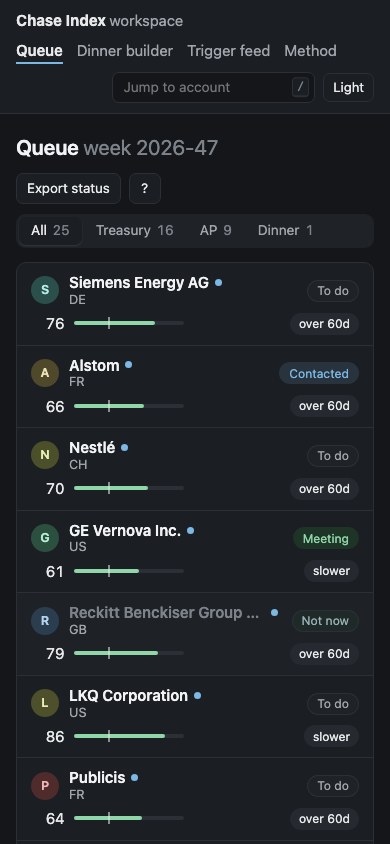
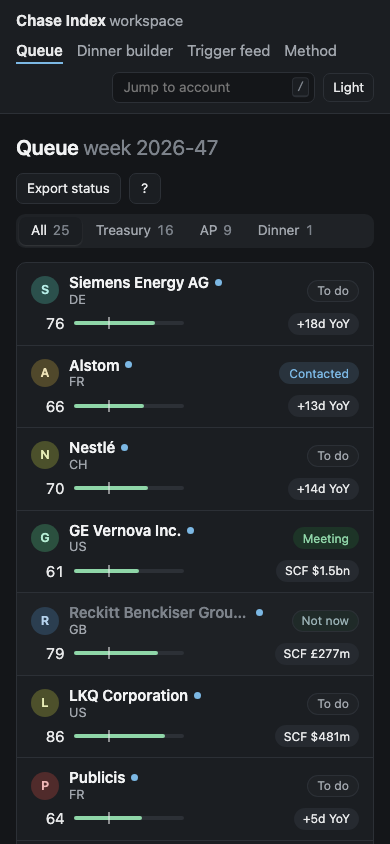
Workspace: specific why-now pills, working tabs, age groups, cleaner panel
- Why-now pill shows the most specific signal with its number (Terms 60->75d,
  SCF started, SCF £277m, +17d YoY from the median UK entity, ES 71->78d,
  Crossed 60d), at most 14 characters.
- Fix: rows set display:grid, which overrode [hidden], so the queue tabs and
  trigger filters changed nothing on screen. Browser test added
  (tests/test_workspace_browser.py) that checks what is visible.
- Trigger feed grouped Last 7 days / 8-14 days / 15-30 days (Upcoming and
  Older when the filter shows them); short labels in the type filter.
- Side panel reads top to bottom: key number and basis, why now (row pill,
  top items as "what · entity a -> b" with source icons), opener with Copy,
  ask for, links; evidence sentence, play, priority and tags under More.
- Panel screenshots for Reckitt, Siemens Energy and Grifols in evals.

diff --git a/workspace/static/style.css b/workspace/static/style.css
@@ -12,6 +12,7 @@
 --rep:#8fd6a8;--rep-bg:#1d3427;--prx:#f0c56b;--prx-bg:#3a2e14;--est:#e3a4dc;--est-bg:#3a2037;--flag:#f3a77f;--flag-bg:#3c2418;
 --t1:#7cb8e4;--t2:#9bb0c4;--t3:#8a8f96;--chip:#262a30;--panel:#1f2226;--faint:#7d838b;--link:#7cb8e4;--ink:#f2f3f4;--chip-fg:#e8e9ea}
 *{box-sizing:border-box}
+[hidden]{display:none!important}   /* rows set display:grid; hidden must still hide them */
 body{margin:0;background:var(--bg);color:var(--fg);font:15px/1.45 var(--font)}
 code,kbd{font-family:var(--font-mono);font-size:.86em}
 a{color:var(--link)}
@@ -166,3 +167,10 @@ button,select,.tab{transition:background-color .12s,border-color .12s,color .12s
  .trow{grid-template-columns:3.4rem minmax(0,1fr) 24px;gap:8px;padding:6px 12px}.t-line{white-space:normal;font-size:.86rem}
  .panel{padding:18px 16px 40px}
 }
+
+.p-basis{display:flex;align-items:center;gap:6px;margin-top:6px}
+.panel .why{list-style:none;padding:0;margin:0}.panel .why li{display:flex;align-items:flex-start;gap:0;padding:6px 0;font-size:.88rem;line-height:1.35;border-top:1px solid var(--line)}
+.panel .why li:first-child{border-top:0}.w-what{color:var(--fg);white-space:nowrap}.w-chg{color:var(--muted);flex:1;min-width:0}.panel .why .sep{margin:0 6px}
+.panel h3 .pill{text-transform:none;letter-spacing:0;margin:0 4px;height:20px;font-size:.74rem;color:var(--chip-fg)}
+.panel .why .src{margin-left:auto;flex:none}
+.p-more{border-top:1px solid var(--line);padding:12px 0;font-size:.86rem}.p-more summary{cursor:pointer;color:var(--muted)}.p-more .p-dl{margin-top:10px}

diff --git a/workspace/build.py b/workspace/build.py
@@ -272,7 +272,43 @@ def days_bar(days: int | None, bench: int | None, scale: int, kcls: str, tip: st
             f'<span class="bar" aria-hidden="true"><i style="width:{w:.1f}%"></i>{tick}</span></span>')
 
 
-def build_queue(queue: dict, types: dict) -> str:
+CUR = {"GBP": "\u00a3", "USD": "$", "EUR": "\u20ac", "CHF": "CHF "}
+
+
+def short_money(v, cur) -> str:
+    v = float(v)
+    s = f"{v / 1e9:.1f}bn" if v >= 1e9 else f"{v / 1e6:.0f}m"
+    return f"{CUR.get(cur, (cur or '') + ' ')}{s}"
+
+
+def why_pill(a: dict, trig_by_type: dict) -> str | None:
+    """The single most specific why-now signal, with its number, at most about 14 characters. Priority:
+    terms lengthened > SCF started > confirmed supplier finance with amount > year-on-year change (median UK entity)
+    > Spain payment period change > crossed 60 days."""
+    tt = set(trig_by_type)
+    if "terms_changed_longer" in tt:
+        m = re.search(r"from (?:standard )?(\d+)\s*(?:days?\s*)?to (\d+)\s*days", trig_by_type["terms_changed_longer"]["text"])
+        return f"Terms {m.group(1)}\u2192{m.group(2)}d" if m else "Terms longer"
+    if "scf_started" in tt:
+        return "SCF started"
+    b = q.get_account_brief(a["company_id"])
+    sf = b.get("supplier_finance") or {}
+    if sf.get("programme_disclosed") and sf.get("confirmed") and sf.get("obligations_outstanding"):
+        return f"SCF {short_money(sf['obligations_outstanding'], sf.get('currency'))}"
+    uk = (b.get("payment_profile") or {}).get("reported", {}).get("uk") or {}
+    med = uk.get("trend_days_year_on_year_median")
+    if med is not None and med >= 1:
+        return f"+{int(med + 0.5)}d YoY"
+    if "es_pmp_rose" in tt:
+        m = re.search(r"from (\d+) to (\d+) days", trig_by_type["es_pmp_rose"]["text"])
+        return f"ES {m.group(1)}\u2192{m.group(2)}d" if m else "ES slower"
+    if "filing_crossed_60" in tt:
+        return "Crossed 60d"
+    return None
+
+
+def build_queue(queue: dict, types: dict, public: list[dict] | None = None) -> str:
+    by_key = {(t["company_id"], t["text"]): t for t in (public or [])}
     acc = queue["accounts"]
     keys = {a["company_id"]: key_number(a["company_id"]) for a in acc}
     nums = [int(k[0][:-1]) for k in keys.values() if k[0][:-1].isdigit()]
@@ -289,10 +325,22 @@ def build_queue(queue: dict, types: dict) -> str:
         n_tre += contact == "Treasury"
         n_ap += contact == "AP"
         n_din += a.get("play") == "dinner_invite"
-        pill = (f'<span class="pill" title="{E(types.get(tt[0], tt[0]))}">{E(ROW_TAG.get(tt[0], short_label(tt[0])))}</span>' if tt
-                else '<span class="faint">standing evidence</span>')
+        mine = {}
+        for t in sorted((t for t in (public or []) if t["company_id"] == cid and t.get("is_live")), key=lambda t: -(t.get("strength") or 0)):
+            mine.setdefault(t["trigger_type"], t)
+        pv = why_pill(a, mine)
+        pill = (f'<span class="pill" title="Strongest specific signal. All signals in the details panel.">{E(pv)}</span>' if pv
+                else f'<span class="pill">{E(ROW_TAG.get(tt[0], short_label(tt[0])))}</span>' if tt else '<span class="faint">standing evidence</span>')
         spark = sparkline(*days_series(cid, kind), w=120, h=28)
-        why = "".join(f"<li>{E(x)}</li>" for x in a["why_now"].split(" | "))
+        def why_li(x):
+            t = by_key.get((cid, x))
+            if not t:
+                return f'<li title="{E(x)}"><span class="w-what">{E(x)}</span></li>'
+            what, chg = trigger_line(t)
+            return (f'<li title="{E(x)}"><span class="w-what">{E(what)}</span><span class="sep">\u00b7</span>'
+                    f'<span class="w-chg">{E(chg)}</span>{icon_link(t.get("evidence_url"))}</li>')
+        why = "".join(why_li(x) for x in a["why_now"].split(" | "))
+        n_shown = len(a["why_now"].split(" | "))
         all_tags = "".join(f'<span class="chip" title="{E(types.get(x, x))}">{E(short_label(x))}</span>' for x in tt) or '<span class="faint">none</span>'
         n_live = a.get("triggers_live_n") or 0
         one_pager = f'<a href="one_pagers/{E(cid)}.html">One-pager</a>' if a.get("one_pager") else ""
@@ -306,17 +354,18 @@ def build_queue(queue: dict, types: dict) -> str:
 <span class="c-contact" title="{E(role)}">{contact}</span>
 <span class="c-status">{status_btn}</span>
 <template class="detail"><header class="p-head">{avatar(a['company'])}<div><h2>{E(a['company'])} {tier_badge(a.get('tier'))}</h2>
-<div class="sub">{E(a.get('country') or '')} · {E((a.get('sector') or '').replace('_', ' '))} · index rank {E(str(a.get('index_rank') or ''))} · queue #{a['queue_rank']}{thin}</div></div></header>
-<section class="p-key"><div><span class="p-num {kcls}">{E(kn)}</span> <span class="muted">{E(kvs)}</span></div>{spark}</section>
-<section><h3>Evidence</h3><p><span class="lbl {'rep' if kcls == 'rep' else 'prx'}">{'Reported' if kcls == 'rep' else 'Computed proxy'}</span> {E(a.get('evidence') or '')} {link(a.get('evidence_url'))}</p></section>
-<section><h3>Why now</h3><ul class="why">{why}</ul>
-<p class="small muted">{link(a.get('why_now_url'), 'trigger source') if a.get('why_now_url') else 'no dated public trigger source'} · {n_live} live event{'' if n_live == 1 else 's'}</p><div>{all_tags}</div></section>
+<div class="sub">{E(a.get('country') or '')} · {E((a.get('sector') or '').replace('_', ' '))} · queue #{a['queue_rank']}{thin}</div></div></header>
+<section class="p-key"><div><span class="p-num {kcls}">{E(kn)}</span> <span class="muted">{E(kvs)}</span>
+<div class="p-basis"><span class="lbl {'rep' if kcls == 'rep' else 'prx'}">{'Reported' if kcls == 'rep' else 'Computed proxy'}</span>{icon_link(a.get('evidence_url'), 'evidence source')}</div></div>{spark}</section>
+<section><h3>Why now {('<span class="pill">' + E(pv) + '</span>') if pv else ''} <span class="faint">{('top ' + str(n_shown) + ' of ') if n_live > n_shown else ''}{n_live} live event{'' if n_live == 1 else 's'}</span></h3><ul class="why">{why}</ul></section>
 <section><h3>Opener <span class="faint">draft, edit before sending</span></h3><blockquote class="opener">{E(a.get('opener_draft') or '')}</blockquote>
 <button type="button" class="copy" data-copy="{E(a.get('opener_draft') or '')}">Copy opener</button></section>
-<section><dl class="p-dl"><dt>Ask for</dt><dd>{E(role)}<div class="small muted">{E(a.get('who_role_reason') or '')}</div></dd>
+<section><dl class="p-dl"><dt>Ask for</dt><dd>{E(ROLE_SHORT.get(role, role))}<div class="faint small">{E(a.get('who_role_reason') or '')}</div></dd>
+<dt>Links</dt><dd><a href="accounts/{E(cid)}.html">Account page</a>{' · ' + one_pager if one_pager else ''}{(' · ' + link(a.get('evidence_url'), 'Evidence')) if a.get('evidence_url') else ''}{(' · ' + link(a.get('why_now_url'), 'Trigger source')) if a.get('why_now_url') else ''}</dd></dl></section>
+<details class="p-more"><summary>More</summary><dl class="p-dl"><dt>Evidence</dt><dd>{E(a.get('evidence') or '')}</dd>
 <dt>Play</dt><dd>{E(PLAY_LABEL.get(a.get('play'), a.get('play') or ''))}</dd>
-<dt>Priority</dt><dd>{num(a.get('queue_priority'), 1)} <span class="small muted">({E(a.get('priority_explained') or '')})</span></dd>
-<dt>Links</dt><dd><a href="accounts/{E(cid)}.html">Account page</a>{' · ' + one_pager if one_pager else ''}</dd></dl></section></template>
+<dt>Priority</dt><dd>{num(a.get('queue_priority'), 1)} <span class="faint">({E(a.get('priority_explained') or '')})</span></dd>
+<dt>Signals</dt><dd>{all_tags}</dd><dt>Account</dt><dd>index rank {E(str(a.get('index_rank') or ''))}</dd></dl></details></template>
 </div>""")
     tabs = [("all", "All", len(acc)), ("treasury", "Treasury", n_tre), ("ap", "AP", n_ap), ("dinner", "Dinner", n_din)]
     tabh = "".join(f'<button type="button" class="tab" role="tab" data-tab="{k}" aria-selected="{"true" if k == "all" else "false"}">{lab} <span class="cnt">{n}</span></button>'
@@ -530,6 +579,13 @@ SHORT_LABELS = {
     "dinner_city": "dinner"}
 
 
+TYPE_LABEL = {"filing_crossed_60": "Crossed 60d", "filing_worsened": "Paying slower", "es_pmp_rose": "ES slower",
+              "terms_changed_longer": "Terms longer", "terms_changed_other": "Terms changed", "terms_changed_shorter": "Terms shorter",
+              "scf_started": "SCF started", "einvoicing_started": "E-invoicing started", "einvoicing_mandate": "E-inv. deadline (buyer)",
+              "einvoicing_mandate_suppliers": "E-inv. deadline (suppliers)", "sf_disclosed": "SCF in annual report", "dinner_city": "Dinner",
+              "results_date": "Results due", "cfo_change": "New CFO"}
+
+
 def short_label(code: str) -> str:
     return SHORT_LABELS.get(code, code.replace("_", " "))
 
@@ -565,14 +621,15 @@ def trigger_line(t: dict) -> tuple[str, str]:
 
 
 def build_triggers(trigs: list[dict], types: dict) -> str:
-    from datetime import timedelta
     today = date.today()
-    monday = today - timedelta(days=today.weekday())
-    groups = {"upcoming": [], "this": [], "last": [], "earlier": []}
+    groups = {"upcoming": [], "d7": [], "d14": [], "d30": [], "older": []}
     for t in trigs:
         d = str(t.get("trigger_date"))[:10]
-        g = ("upcoming" if d > today.isoformat() else "this" if d >= monday.isoformat()
-             else "last" if d >= (monday - timedelta(days=7)).isoformat() else "earlier")
+        try:
+            age = (today - date.fromisoformat(d)).days
+        except ValueError:
+            age = 9999
+        g = "upcoming" if age < 0 else "d7" if age <= 7 else "d14" if age <= 14 else "d30" if age <= 30 else "older"
         what, change = trigger_line(t)
         tt = t["trigger_type"]
         approx = ' <span class="faint" title="Date is approximate">approx.</span>' if t.get("date_is_approximate") is True else ""
@@ -583,10 +640,10 @@ def build_triggers(trigs: list[dict], types: dict) -> str:
 <span class="t-date">{E(d[5:] if d[:4] == str(today.year) else d)}{approx}</span>
 <span class="t-line">{acct}<span class="sep">·</span><span class="t-what">{E(what + binds)}</span><span class="sep">·</span><span class="t-chg">{E(change)}</span></span>
 {icon_link(t.get('evidence_url'))}</div>""")
-    names = {"upcoming": "Upcoming", "this": "This week", "last": "Last week", "earlier": "Earlier"}
+    names = {"upcoming": "Upcoming", "d7": "Last 7 days", "d14": "8\u201314 days", "d30": "15\u201330 days", "older": "Older"}
     secs = "".join(f'<section class="tsec" data-group="{k}"><h3 class="tgroup">{names[k]} <span class="faint">{len(v)}</span></h3><div class="list">{"".join(v)}</div></section>'
                    for k, v in groups.items() if v)
-    opts = "".join(f'<option value="{E(k)}">{E(v)}</option>' for k, v in types.items() if any(t["trigger_type"] == k for t in trigs))
+    opts = "".join(f'<option value="{E(k)}" title="{E(v)}">{E(TYPE_LABEL.get(k, v))}</option>' for k, v in types.items() if any(t["trigger_type"] == k for t in trigs))
     body = f"""<div class="pagehead"><h1>Trigger feed</h1>
 <div class="filters" data-target="#trig"><label>Type <select data-filter="type" data-hide-on-all="dinner_city"><option value="">All but dinner</option>{opts}</select></label>
 <label>When <select data-window><option value="30">Last 30 days</option><option value="90">Last 90 days</option><option value="up">Upcoming</option><option value="">Any date</option></select></label>
@@ -687,7 +744,7 @@ def main() -> None:
     future = sorted([t for t in feed if str(t.get("trigger_date")) > today_s], key=lambda t: str(t.get("trigger_date")))
     feed = past + future
 
-    (DIST / "index.html").write_text(build_queue(queue, types))
+    (DIST / "index.html").write_text(build_queue(queue, types, public))
     (DIST / "dinners.html").write_text(build_dinners(dinners))
     (DIST / "triggers.html").write_text(build_triggers(feed, types))
     (DIST / "method.html").write_text(build_method())

diff --git a/tests/test_workspace_browser.py b/tests/test_workspace_browser.py
@@ -1,0 +1,78 @@
+"""Browser test for the workspace: filters and tabs must change what is actually on screen, not just set an attribute.
+(Rows use display:grid, which once overrode [hidden] so the queue tabs set the attribute but showed every row.)
+Needs Playwright with Chromium; skipped otherwise. Builds with --neutral so a local theme never matters."""
+import functools
+import http.server
+import subprocess
+import sys
+import threading
+from pathlib import Path
+
+import pytest
+
+ROOT = Path(__file__).resolve().parents[1]
+DIST = ROOT / "workspace" / "dist"
+sync_api = pytest.importorskip("playwright.sync_api")
+
+
+@pytest.fixture(scope="module")
+def site():
+    r = subprocess.run([sys.executable, str(ROOT / "workspace" / "build.py"), "--neutral"], cwd=ROOT, capture_output=True, text=True)
+    assert r.returncode == 0, r.stderr[-2000:]
+    handler = functools.partial(http.server.SimpleHTTPRequestHandler, directory=str(DIST))
+    handler.log_message = lambda *a: None
+    srv = http.server.ThreadingHTTPServer(("127.0.0.1", 0), handler)
+    threading.Thread(target=srv.serve_forever, daemon=True).start()
+    try:
+        with sync_api.sync_playwright() as p:
+            try:
+                b = p.chromium.launch()
+            except Exception as e:  # browser binary not installed
+                pytest.skip(f"chromium not available: {e}")
+            yield b, f"http://127.0.0.1:{srv.server_port}/"
+            b.close()
+    finally:
+        srv.shutdown()
+
+
+def _visible(pg, sel):
+    return pg.eval_on_selector_all(sel, "els => els.filter(e => e.getBoundingClientRect().height > 0).length")
+
+
+def test_queue_tabs_filter_the_visible_rows(site):
+    b, base = site
+    pg = b.new_page(viewport={"width": 1280, "height": 900})
+    errors = []
+    pg.on("pageerror", lambda e: errors.append(str(e)))
+    pg.goto(base + "index.html")
+    total = _visible(pg, ".qrow")
+    assert total == pg.locator(".qrow").count() > 0
+    seen = {}
+    for tab in ("treasury", "ap", "dinner", "all"):
+        pg.click(f'.tab[data-tab="{tab}"]')
+        expected = int(pg.locator(f'.tab[data-tab="{tab}"] .cnt').inner_text())
+        seen[tab] = _visible(pg, ".qrow")
+        assert seen[tab] == expected, (tab, seen[tab], expected)
+        if tab == "treasury":
+            assert _visible(pg, '.qrow[data-contact="ap"]') == 0
+        if tab == "ap":
+            assert _visible(pg, '.qrow[data-contact="treasury"]') == 0
+    assert seen["all"] == total and seen["treasury"] + seen["ap"] == total and seen["treasury"] < total
+    # the side panel opens from a row and closes with Esc
+    pg.locator(".qrow").first.click()
+    assert pg.locator("#panel").is_visible()
+    pg.keyboard.press("Escape")
+    assert not pg.locator("#panel").is_visible()
+    assert not errors, errors
+
+
+def test_trigger_filters_hide_rows_on_screen(site):
+    b, base = site
+    pg = b.new_page(viewport={"width": 1280, "height": 900})
+    pg.goto(base + "triggers.html")
+    shown = int(pg.locator(".count").inner_text().split(" of ")[0])
+    assert _visible(pg, ".trow") == shown < pg.locator(".trow").count()
+    assert _visible(pg, '.trow[data-type="dinner_city"]') == 0
+    pg.select_option("select[data-window]", "")
+    pg.select_option("select[data-filter=type]", "dinner_city")
+    assert _visible(pg, ".trow") == _visible(pg, '.trow[data-type="dinner_city"]') > 0

diff --git a/tests/test_workspace.py b/tests/test_workspace.py
@@ -139,6 +139,7 @@ def test_dinners_triggers_method_and_search():
     """Dinner builder: City area / Rest of country groups; rows are checkbox, company, city, one invite pill, with the
     hook as tooltip and in the panel. Trigger feed: This week / Last week / Earlier groups, one line per trigger, source as
     an icon link (a dash without one), dinner triggers hidden under 'All', last 30 days first. Method collapsed. Search on every page."""
+    import html
     import re
     d = (DIST / "dinners.html").read_text()
     assert 'class="lede"' not in d and "City area <span" in d and 'data-act="inv-export"' in d
@@ -153,13 +154,18 @@ def test_dinners_triggers_method_and_search():
     assert '"city,date,account_name,status"' in js       # config/byod/dinner_attendees.csv columns
     t = (DIST / "triggers.html").read_text()
     assert 'data-hide-on-all="dinner_city"' in t and '<option value="30">Last 30 days</option>' in t.split("data-window>")[1][:60]
-    assert 'class="lede"' not in t and re.search(r'<h3 class="tgroup">(This week|Last week|Earlier|Upcoming) ', t)
+    assert 'class="lede"' not in t and re.search(r'<h3 class="tgroup">(Last 7 days|8\u201314 days|15\u201330 days|Older|Upcoming) ', t)
     trows = re.findall(r'<div class="trow".*?</div>', t, re.S)
     assert len(trows) > 100
     for r in trows:
         assert 'class="src"' in r or 'class="nolink"' in r
         assert re.search(r'class="t-line">.*?<b>.+?</b>.*?class="t-what">.+?</span>.*?class="t-chg">.+?</span>', r, re.S), r[:200]
     assert sum("\u2192" in r for r in trows) > 50          # "entity a -> b" for the filing triggers
+    for code, lab in (("filing_crossed_60", "Crossed 60d"), ("sf_disclosed", "SCF in annual report"), ("dinner_city", "Dinner")):
+        assert f'<option value="{code}"' in t and f">{lab}</option>" in t
+    pills = re.findall(r'<span class="c-why"><span class="pill"[^>]*>([^<]+)</span>', (DIST / "index.html").read_text())
+    assert pills and all(len(html.unescape(x)) <= 14 for x in pills), pills
+    assert any(re.fullmatch(r"(SCF [\u00a3$\u20ac][\d.]+(m|bn)|\+\d+d YoY|ES \d+\u2192\d+d|Terms \d+\u2192\d+d|SCF started|Crossed 60d)", html.unescape(x)) for x in pills)
     m = (DIST / "method.html").read_text()
     assert 'class="kinds"' in m and '<details class="full"><summary>Show full methodology</summary>' in m
     q = (DIST / "index.html").read_text()
